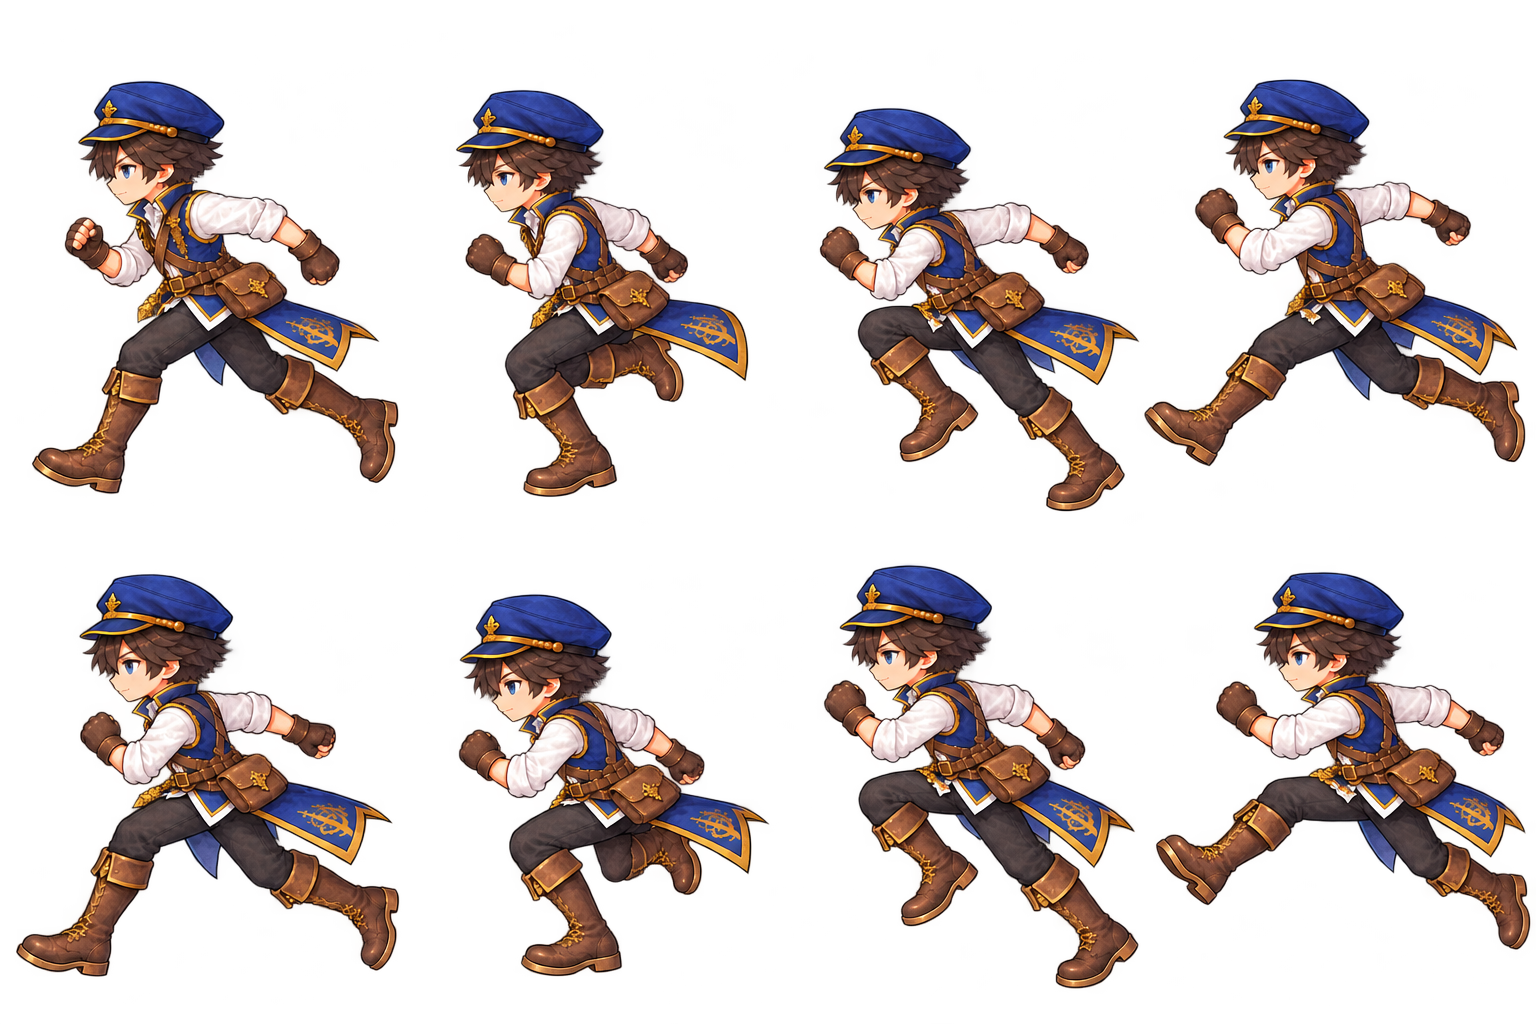
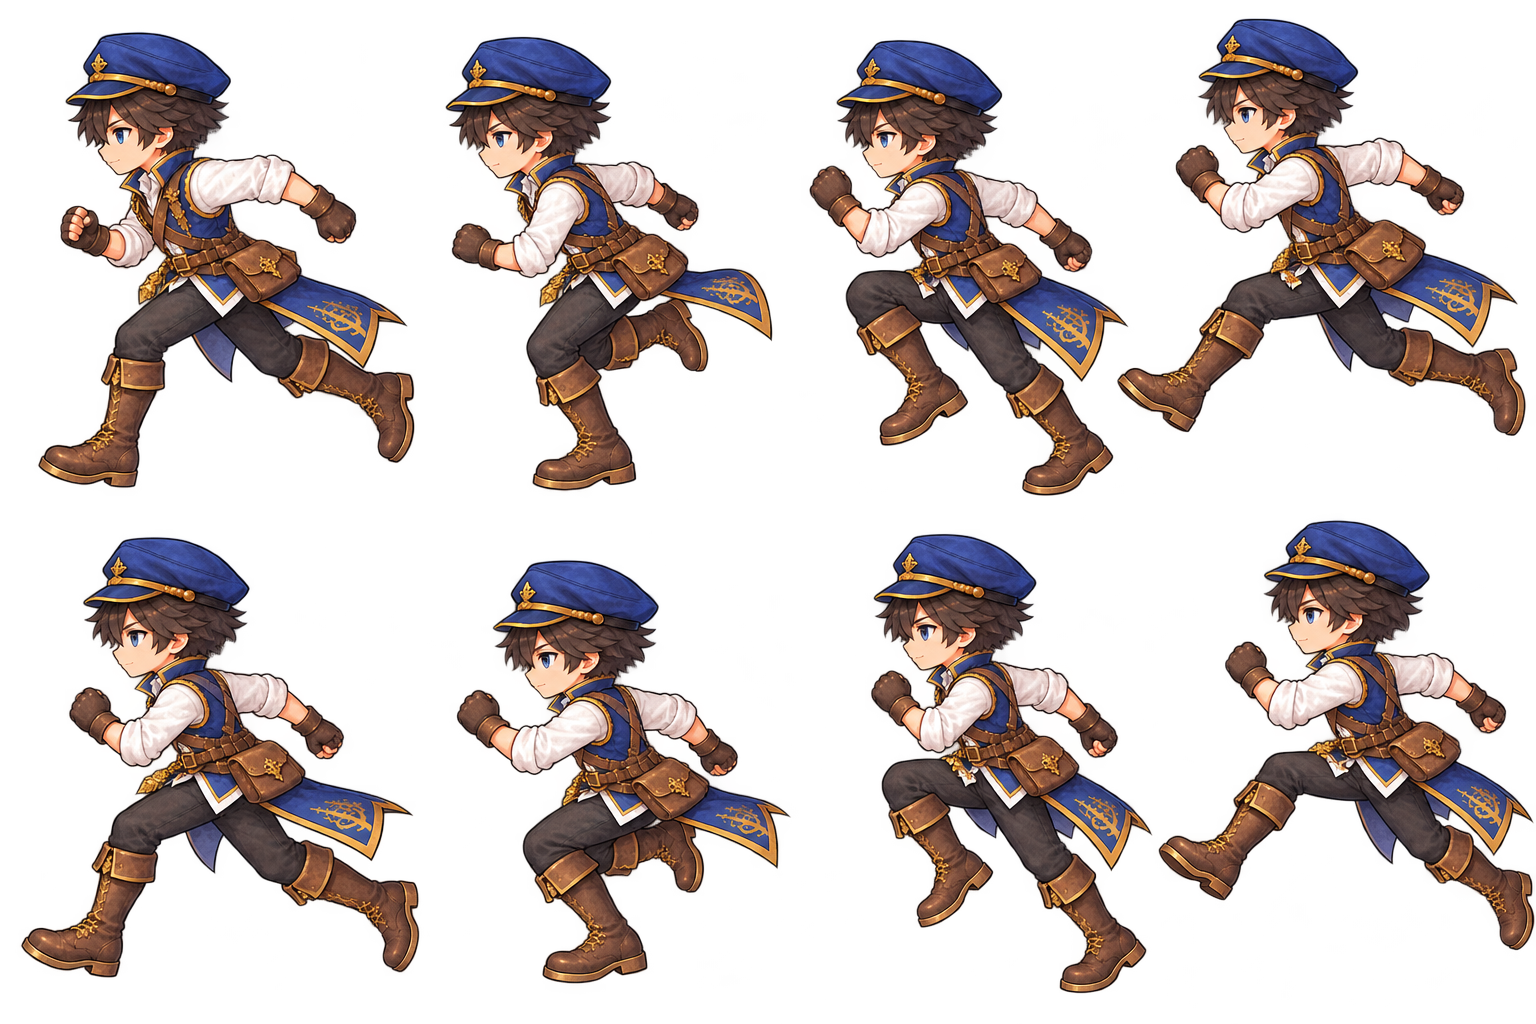
左向きの走りを2枚目（B）に差し替え（顔の見え方が歩きの絵に近い）・公開の記録
Claude-Session: https://claude.ai/code/session_017pkdgoVCas5KENQnYkuWbn

diff --git a/docs/handoff.md b/docs/handoff.md
@@ -8,7 +8,7 @@
 | --- | --- |
 | 正式名称 | セイクリッドモンスターズ バトルカード（Sacred Monsters Battle Card・短縮「セイクリッドBC」）。旧称ミルティル・ミストリア |
 | アプリのアイコン | 2026-10-23 に新しい正式アイコンへ差し替え（原本 `assets/images/icons/sacred-monsters-bc-official-icon-v2.png`。作り方は `assets/README.md`）。タイトル画面のアイコンも同じ |
-| 公開URL | https://shunyamita0804-source.github.io/sacred-monsters-battle-card/ （`main` の `7f44c0a` を公開。2026-10-24・ユーザーの「公開して」による。ガウル・ラズック改訂・カメラなどが公開版に入っていることを確認）。旧URL（…/mirtill-monsters-battle-card/）は 404 |
+| 公開URL | https://shunyamita0804-source.github.io/sacred-monsters-battle-card/ （`main` の `53f27f4` を公開。2026-10-24・ユーザーの「終わったら公開して」による。男性4方向の歩き8コマ＋走り8コマ・絵を4方向に・歩く速さ185・歩きの確認画面〔`?qa=1&lab=walk`〕。その後、左向きの走りを B に差し替えて再公開）。旧URL（…/mirtill-monsters-battle-card/）は 404 |
 | リポジトリ | https://github.com/shunyamita0804-source/sacred-monsters-battle-card （Public。2026-10-22 ユーザーが改名。旧名 mirtill-monsters-battle-card） |
 | 歩きの確認画面・歩きの計算（2026-10-24・作業ブランチ `claude/new-session-pk5m5i`・未マージ・未公開） | ユーザーの ZIP「Seimon_WalkRun_Claude_Phase1」の第1段階。報告は `docs/design/walk-run-phase1-20261024/10_Claude_Report_UTF8.txt`、次に描く男性・左向きの歩き8コマ＋走り8コマの仕様は同じフォルダの `20_`。やったこと：歩く速さ・歩幅・位相・コマの計算を `src/game/world/walkAnim.ts` に切り出し（テスト19件）、走りに切り替えるとコマが飛ぶ不具合を修正（位相を積み上げる）、`?qa=1` のときだけ入れる「歩きの確認（開発用）」画面（`walkLabScreen.ts`。`?qa=1&lab=walk` で直接。本体の `WorldView` をそのまま使い、調整項目 `WorldDevOptions` だけ渡す。調整は保存しない）。本編の歩き方・速さ・絵は変えていない。**分かったこと**：足滑り（絵の中で足が動く量は1歩 約130px に対しゲームの1歩は 209px＝約1.6倍）、走りは歩きの絵の 1.64 倍速再生、女性と男性の斜めは3ポーズのまま。**ユーザーの判断待ち**：歩幅の方針（A 自然な歩幅＋設定を絵に合わせる／B いまの速さに合わせた大股／C そのまま）、マージ・公開するか。iPhone 実機は未確認 |
 | 最新版 | `main`（公開した `7f44c0a`＋このメモ）。作業ブランチ `claude/new-session-flx5dv` と `main` は同じ内容。2026-10-24 に公開した中身：**男性主人公の背中・左向き・右向きの歩きも1周8コマ**。背中＝1枚目の絵のズボンとブーツだけを左右反転した2枚目（`tools/art/back_walk_swap_legs.py`）。左向き＝1枚に8ポーズの絵（`docs/design/motion-v2-20261024/redo8/`）をそのまま使用（右向きはその反転）。ただし左向きは上下の段とも「手前の足が前」の1歩で、足の手前・奥は入れ替わっていない（小さく見るぶんには目立たない）。背中の8ポーズの絵（`motion-v2/player_male_back_walk8_try1.png`）は足の順番がそろっていないので使っていない。残り：斜め・走り・女性。**バトル**：①ガウル16技を正式に（`src/data/gauul.ts`。原本 PNG は `design-parts/cards-original/gauul/`）②ラズックの改訂（並びは表示の番号だけ変更・新技いたずら `skl-lazuck-itazura`・旧13 クロスガードはゲームから削除〔セーブ version 8 で外す〕・いたずらは相手の手札0枚なら使えない・ガウルの熱風の威嚇は次のターンまで・回避14〜16）③ソラモ14/16 の回避の改訂と、回避の「必要マナ2以上」の判定（共通）④バトルの試遊の修正5点（命中の音・マナ化はその場で1枚ずつ光って消える＋音・ライフは1ずつ減って「カタッ」と鳴る〔「−2」の表示は削除〕・技の対象に指のマーク 👇〔大きなカードを見せている間は出さない〕・配る音をカードの音に。ダメージ予定の赤い数字の丸は削除。技のダメージ−の印は文字でなく拳／本の丸い印＋赤い数字〔`tools/design/stat_icon_crop.py`〕。音は効果音ラボ、`docs/audio-credits.md`。マナで消える音は候補からユーザーが選んだシャキーン1）。⑤PS版の映像を参考に（2026-10-24）：カメラ（対戦テーブルを 1.06 倍にして、相手の番・守備は上、自分の番・守備は下へ寄せる。`battleScreen.ts` の `cameraFocus`・`battleTable.css` の `.battle-camera`）、マナにするとき青白い星の光、相手の使うカードが手札で持ち上がって光ってから真ん中へ、相手のセリフを1文字ずつ出して▼（押すと全部出す→閉じる）。記録は `docs/card-data-policy.md`・`docs/battle-rules.md`。テスト 378件 |
@@ -39,7 +39,7 @@
 | 対戦画面の改訂R2（2026-10-24・公開済み `e1b48d9`・**iPhone 確認待ち**） | ユーザーの ZIP「Seimon_Claude_BattleLayout_R2_20261024」のフェーズ2だけ実装：相手の手札を自分と同じ大きさの裏向きで上に（実枚数・中身は出さない・引く/使う/マナ化で動く）、モンスターを 72→58（72/58/54 を比較）→ユーザー指示で左右の欄を細く・アイコンなしにして 66、手札（自分・相手とも）62→66、相手の列は 左＝状態・右＝マナ/山札/手札/捨札、真ん中の帯に最新の経過1行（押すと全部）、操作のボタンは自分のモンスターの右（ユーザー指示「下すぎて操作感に問題」で、いちばん下から移した。自分の列は 左＝マナなど・右＝ボタン）。ルール・カード・セーブ・画像は変更なし。記録と受入テストの結果は `docs/battle-layout-r2.md`、比較画像は `docs/design/battle-layout-r2-20261024/`。**フェーズ1（街・ダンジョン・NPC）は未着手**（動画4本・前の ZIP が届いていない） |
 | 歩く人物の見え方（2026-10-24・公開済み `8641fd1`） | ユーザーの試遊「プカプカ浮いて見える」「指でなぞるとクルクル回って、切り抜いて貼った絵のようでチープ」から：立っている人の呼吸の動きをやめた（`world.css`）、歩くときの体の上下（弾み）を 0 に、足元の影を広く濃く・少し下へ（接地の影）。向き：壁ぞいにすべるときも押している向きの絵のまま（斜めと正面の絵が1歩ごとに入れ替わっていた）、進めない向きへは 0.22 秒押し続けたときだけその場で向く（`worldScreen.ts` の `TURN_IN_PLACE_MS`） |
 | 世界地図 | **2026-10-23 作って公開（`9b6494b`）**（ユーザー案）：街の南の出口・家の壁の地図で開く画面を、ミスモンの世界地図（ユーザーが送った文字のない版。`assets/images/ui/worldmap/world_map.webp`）に。地方の名前6つ（ミスモン本編と同じ：フェルナ・ノルディス・アステリア・オルティガ・セイラン・ネブラシア。英語は仮訳）を絵の上に重ね、舞台の**フェルナ地方**は金色。街（現在地）とダンジョンを丸い印で置き、押すと下に説明。**南の出口からは出発できる・家の壁の地図は見るだけ**（それまでは家からも出発できた）。ダンジョンは各地方に置く方針（例：雪のダンジョン＝ノルディス地方）。印の位置・名前は**仮**（`src/data/worldMap.ts`）。画面は `dungeonSelectScreen.ts` |
-| 次の作業 | **男性・左向きの歩き8コマ（第3版）が届き、作業ブランチに組み込み済み（記録 `docs/design/walk-run-v3-20261024/10_RESULTS_UTF8.txt`）。ゲームの1歩を絵に合わせて `STEP_PER_HEIGHT` 0.58→0.38（足滑りなし・25コマ/秒の速足）。ユーザー「歩く速さを下げて」で `WALK_PX` 231→185（約5歩/秒・20コマ/秒。走りは 1.7 倍の 315px/秒）。**左向きの走り8コマも届いて組み込み済み**：シートを12行に（歩き8行＋走り4行。走りの絵が無い向きは歩きの写し。女性も同じ形）、走るときは行＋8（`walkAnim.ts` の `sheetRow`）、走りの1歩 0.6→0.7、走りの絵の行ではプログラムの前傾なし。**背中の歩き・背中の走り・正面の走りも届いて組み込み済み → 男性は4方向とも歩き8コマ＋走り8コマがそろった。** ユーザー「斜め歩行は無しにして四方向に」で、絵は4方向（斜めに進むときは横の絵。進み方は8方向のまま）、シートは 8行（歩き4＋走り4・2430×2880）、`adult_walk_build.py` は `--diag` なし。残りは女性（`walk-run-v3-20261024/female/`：歩き 左・背中・正面、走り 左・背中・正面。文は男性のものを流用）。** その前の経緯：ユーザーが「何回直しても自然にならない」→ 第3版の依頼一式 `docs/design/walk-run-v3-20261024/`（ZIP `Seimon_WalkRun_v3_Prompts.zip` を渡し済み）。決めごと：歩きは大股の速足（身長の 0.6）で描きゲームの1歩を絵に合わせる・走りは別の8コマ・4方向（斜めは横で代用）・男性の左向き歩きから1枚ずつ。走りの動きの見本は `tools/art/walk_guide_draw.py`（RUN_PH）。届いたら確認画面で歩幅を測って組み込む**。第1段階の報告の → 素材が届いたら `walk-run-phase1-20261024/20_` の手順で組み込み、確認画面で歩幅を計測**。それ以外は、**新しいセッションでは、ユーザーの次の指示を待つ**（2026-10-24 ユーザー「まだ試遊はしていません」）。**ユーザーの試遊・iPhone 確認待ち**：対戦画面の改訂R2（公開済み `e1b48d9`。直しの指示が来たら `battleScreen.ts`・`battleTable.css`）。**第7弾の描き直し6枚（両端の飾りなし）を組み込んだ（2026-10-24・公開済み `35b2c69`。記録 `docs/design/ui-quality7fix-20261023/10_受け取り結果_UTF8.txt`）**。**歩き方の改善（2026-10-24・公開済み `35b2c69`）**：ユーザー「動きがチープ」を受け、ゲーム側だけで、足元を中心に体をわずかに縮める／伸ばす・進む向きへ少し前傾き・足元の影の動き・足の動きを落ち着かせる（`STEP_PER_HEIGHT` 0.45→0.58）（`worldScreen.ts` の `#bodyPose`）。比べた動画はチャットで送付。**歩きの絵の次の作業**：男性の正面は8コマで公開済み。次は男性の左向き・背中を「受け取って貼るだけ」の形（`motion-v2-20261024/easy/`：参考の絵1枚＋枠＋動きの見本＋貼る文。AI は右足・左足を取り違えやすいので動きの見本の図を必ず添付）で頼む。**絵の依頼（最新）**：主人公の「歩く・走る」第2版 `docs/design/motion-v2-20261024/`（2026-10-24。1歩4ポーズ＝1周8コマ・1枚に4ポーズ・1人20枚。ZIP `Seimon_Motion_v2.zip` をユーザーに渡し済み。まず男性・正面の歩き2枚。部品で動かす試作〔`tools/art/rig_*_prototype.py`〕はユーザー「ロボットみたい」で不採用）。その前の依頼：主人公の「歩く・走る」全方向 `docs/design/motion-20261024/`（2026-10-24。歩き4ポーズ＋走り4ポーズ×5方向・1枚に1ポーズ・1人34枚。ZIP `Seimon_Motion_Walk_Run.zip` をユーザーに渡し済み。前の `walk-passing-20261024` を含む。まず男性・正面の W2 を1枚）。**男性・正面の W2・W4 が届いて作業ブランチに組み込み済み・未公開**（`docs/design/motion-20261024/10_RESULTS.txt`。比べた動画はチャットで送付）。届いたら `tools/art/adult_walk_build.py` で「右足を前・右足で立ち左足を運ぶ・左足を前・左足で立ち右足を運ぶ」の4コマにする。黒い余白の補正は画面の下が切れたので取り消し済み（公開済み）。絵の依頼の ZIP は作り直し版（`Seimon_WalkPassing.zip`・英数字の名前・5.5MB）をユーザーが受け取り済み。上の帯の設定（`black-translucent`）の変更はユーザーの判断待ち。**改訂R2のフェーズ1（街・ダンジョン・NPC）は公開済み `44b33e2`・iPhone 確認待ち**（2026-10-24。特に、ホーム画面から開いたとき下の黒い帯が消えたか。黒い余白の補正・ダンジョン 1.5 倍／街 1.15 倍とカメラの遊び・先読み・人のまわり〔重ならない・「話す」・こちらを向く〕・スティックの輪の位置）。記録と確認の結果は `docs/battle-layout-r2.md` 6・7章。**ユーザーの iPhone 確認待ち**：歩く人物（浮かない・回らない・影）、対戦画面（相手の手札は裏向き・情報の箱は端・コマンドは自分の情報の下・相手のひと言）、攻撃終了の修正、ラズック、効果音、世界地図、デザイン第6・7弾、新しいアイコン。**届く予定**：第7弾の描き直し6枚（両端の飾りなし。依頼一式 `docs/design/ui-quality7fix-20261023/`）。**ユーザーが決めること**：ラズックの初期・収集の配分（8/8 か 10/6）、ちょうはつ・ダストキックの細かい裁定、相手のひと言の正式な台詞、ダンジョンの対戦の背景、大会の対戦相手の名前・人物像、先生の台詞（仮）、世界地図の印の位置・名前（仮）。ソラモ・ラズックの未定事項は上の「正式カード」の行。未着の依頼：歩きの「半歩」の絵、走る絵 |
+| 次の作業 | **男性・左向きの歩き8コマ（第3版）が届き、作業ブランチに組み込み済み（記録 `docs/design/walk-run-v3-20261024/10_RESULTS_UTF8.txt`）。ゲームの1歩を絵に合わせて `STEP_PER_HEIGHT` 0.58→0.38（足滑りなし・25コマ/秒の速足）。ユーザー「歩く速さを下げて」で `WALK_PX` 231→185（約5歩/秒・20コマ/秒。走りは 1.7 倍の 315px/秒）。**左向きの走り8コマも届いて組み込み済み**：シートを12行に（歩き8行＋走り4行。走りの絵が無い向きは歩きの写し。女性も同じ形）、走るときは行＋8（`walkAnim.ts` の `sheetRow`）、走りの1歩 0.6→0.7、走りの絵の行ではプログラムの前傾なし。**背中の歩き・背中の走り・正面の走りも届いて組み込み済み → 男性は4方向とも歩き8コマ＋走り8コマがそろった（左向きの走りは2枚目 B を採用。A は `_v3a` で保管）。公開済み。** ユーザー「斜め歩行は無しにして四方向に」で、絵は4方向（斜めに進むときは横の絵。進み方は8方向のまま）、シートは 8行（歩き4＋走り4・2430×2880）、`adult_walk_build.py` は `--diag` なし。残りは女性（`walk-run-v3-20261024/female/`：歩き 左・背中・正面、走り 左・背中・正面。文は男性のものを流用）。** その前の経緯：ユーザーが「何回直しても自然にならない」→ 第3版の依頼一式 `docs/design/walk-run-v3-20261024/`（ZIP `Seimon_WalkRun_v3_Prompts.zip` を渡し済み）。決めごと：歩きは大股の速足（身長の 0.6）で描きゲームの1歩を絵に合わせる・走りは別の8コマ・4方向（斜めは横で代用）・男性の左向き歩きから1枚ずつ。走りの動きの見本は `tools/art/walk_guide_draw.py`（RUN_PH）。届いたら確認画面で歩幅を測って組み込む**。第1段階の報告の → 素材が届いたら `walk-run-phase1-20261024/20_` の手順で組み込み、確認画面で歩幅を計測**。それ以外は、**新しいセッションでは、ユーザーの次の指示を待つ**（2026-10-24 ユーザー「まだ試遊はしていません」）。**ユーザーの試遊・iPhone 確認待ち**：対戦画面の改訂R2（公開済み `e1b48d9`。直しの指示が来たら `battleScreen.ts`・`battleTable.css`）。**第7弾の描き直し6枚（両端の飾りなし）を組み込んだ（2026-10-24・公開済み `35b2c69`。記録 `docs/design/ui-quality7fix-20261023/10_受け取り結果_UTF8.txt`）**。**歩き方の改善（2026-10-24・公開済み `35b2c69`）**：ユーザー「動きがチープ」を受け、ゲーム側だけで、足元を中心に体をわずかに縮める／伸ばす・進む向きへ少し前傾き・足元の影の動き・足の動きを落ち着かせる（`STEP_PER_HEIGHT` 0.45→0.58）（`worldScreen.ts` の `#bodyPose`）。比べた動画はチャットで送付。**歩きの絵の次の作業**：男性の正面は8コマで公開済み。次は男性の左向き・背中を「受け取って貼るだけ」の形（`motion-v2-20261024/easy/`：参考の絵1枚＋枠＋動きの見本＋貼る文。AI は右足・左足を取り違えやすいので動きの見本の図を必ず添付）で頼む。**絵の依頼（最新）**：主人公の「歩く・走る」第2版 `docs/design/motion-v2-20261024/`（2026-10-24。1歩4ポーズ＝1周8コマ・1枚に4ポーズ・1人20枚。ZIP `Seimon_Motion_v2.zip` をユーザーに渡し済み。まず男性・正面の歩き2枚。部品で動かす試作〔`tools/art/rig_*_prototype.py`〕はユーザー「ロボットみたい」で不採用）。その前の依頼：主人公の「歩く・走る」全方向 `docs/design/motion-20261024/`（2026-10-24。歩き4ポーズ＋走り4ポーズ×5方向・1枚に1ポーズ・1人34枚。ZIP `Seimon_Motion_Walk_Run.zip` をユーザーに渡し済み。前の `walk-passing-20261024` を含む。まず男性・正面の W2 を1枚）。**男性・正面の W2・W4 が届いて作業ブランチに組み込み済み・未公開**（`docs/design/motion-20261024/10_RESULTS.txt`。比べた動画はチャットで送付）。届いたら `tools/art/adult_walk_build.py` で「右足を前・右足で立ち左足を運ぶ・左足を前・左足で立ち右足を運ぶ」の4コマにする。黒い余白の補正は画面の下が切れたので取り消し済み（公開済み）。絵の依頼の ZIP は作り直し版（`Seimon_WalkPassing.zip`・英数字の名前・5.5MB）をユーザーが受け取り済み。上の帯の設定（`black-translucent`）の変更はユーザーの判断待ち。**改訂R2のフェーズ1（街・ダンジョン・NPC）は公開済み `44b33e2`・iPhone 確認待ち**（2026-10-24。特に、ホーム画面から開いたとき下の黒い帯が消えたか。黒い余白の補正・ダンジョン 1.5 倍／街 1.15 倍とカメラの遊び・先読み・人のまわり〔重ならない・「話す」・こちらを向く〕・スティックの輪の位置）。記録と確認の結果は `docs/battle-layout-r2.md` 6・7章。**ユーザーの iPhone 確認待ち**：歩く人物（浮かない・回らない・影）、対戦画面（相手の手札は裏向き・情報の箱は端・コマンドは自分の情報の下・相手のひと言）、攻撃終了の修正、ラズック、効果音、世界地図、デザイン第6・7弾、新しいアイコン。**届く予定**：第7弾の描き直し6枚（両端の飾りなし。依頼一式 `docs/design/ui-quality7fix-20261023/`）。**ユーザーが決めること**：ラズックの初期・収集の配分（8/8 か 10/6）、ちょうはつ・ダストキックの細かい裁定、相手のひと言の正式な台詞、ダンジョンの対戦の背景、大会の対戦相手の名前・人物像、先生の台詞（仮）、世界地図の印の位置・名前（仮）。ソラモ・ラズックの未定事項は上の「正式カード」の行。未着の依頼：歩きの「半歩」の絵、走る絵 |
 
 ## 2. これまでの作業（時系列・要点だけ）
 
